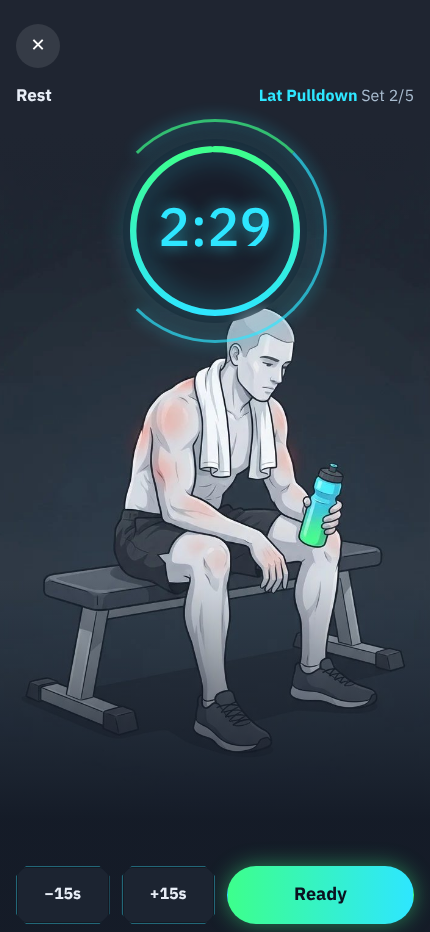
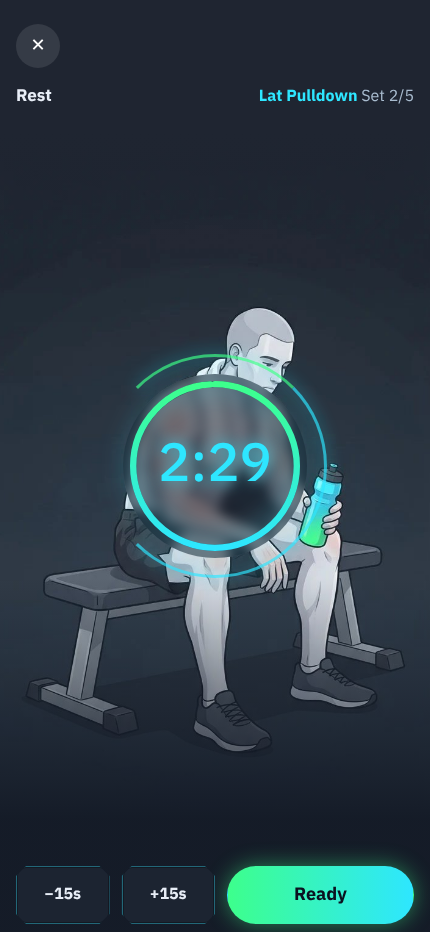
Rest photo: timer in the centre (#183)
* docs: Today critique snapshot + redesign intent

Claude-Session: https://claude.ai/code/session_01TA1QFnqgBxBRFsiXemJ9Lg

* chore: ignore impeccable live-server state

Claude-Session: https://claude.ai/code/session_01TA1QFnqgBxBRFsiXemJ9Lg

* Today: plan first, one start button, inline meal tick, folded recovery

Claude-Session: https://claude.ai/code/session_01TA1QFnqgBxBRFsiXemJ9Lg

* docs: merge PR automatically once npm test passes

Claude-Session: https://claude.ai/code/session_01TA1QFnqgBxBRFsiXemJ9Lg

* docs: no OK wait between steps

Claude-Session: https://claude.ai/code/session_01TA1QFnqgBxBRFsiXemJ9Lg

* Today: recovery-aware start, undo on meal tick, progress bars, direct start

Claude-Session: https://claude.ai/code/session_01TA1QFnqgBxBRFsiXemJ9Lg

* Today: rested program leads, rest-day exit, inline meal cancel, over-target bar

Claude-Session: https://claude.ai/code/session_01TA1QFnqgBxBRFsiXemJ9Lg

* Today: body weight + 7-day change + weigh-in in the body card

Claude-Session: https://claude.ai/code/session_01TA1QFnqgBxBRFsiXemJ9Lg

* Today: body card shows weight, muscle mass and body fat

Claude-Session: https://claude.ai/code/session_01TA1QFnqgBxBRFsiXemJ9Lg

* Today: weigh-in opens the full body-log sheet

Claude-Session: https://claude.ai/code/session_01TA1QFnqgBxBRFsiXemJ9Lg

* Today: headline matches suggestion, inline cancel, blank weigh-in, fits above tab bar

Claude-Session: https://claude.ai/code/session_01TA1QFnqgBxBRFsiXemJ9Lg
[…]

diff --git a/public/index.html b/public/index.html
@@ -8,11 +8,11 @@
 <meta name="apple-mobile-web-app-status-bar-style" content="black-translucent">
 <meta name="apple-mobile-web-app-title" content="WeightGram">
 <link rel="manifest" href="/manifest.webmanifest">
-<link rel="apple-touch-icon" href="/apple-touch-icon.png?v=138607">
+<link rel="apple-touch-icon" href="/apple-touch-icon.png?v=138608">
 <title>WeightGram</title>
 <link rel="stylesheet" href="https://fonts.googleapis.com/css2?family=IBM+Plex+Sans+Thai:wght@400;500;700&family=IBM+Plex+Mono:wght@400;500&family=Share+Tech+Mono&display=swap">
 <style>:root{padding-top:env(safe-area-inset-top,0px);padding-bottom:env(safe-area-inset-bottom,0px)}*{-webkit-tap-highlight-color:transparent}body{margin:0;font-size:var(--t-sm);font-family:system-ui,sans-serif}img{max-width:100%}[hidden]{display:none!important}</style>
-<link rel="stylesheet" href="/css/app.css?v=138607">
+<link rel="stylesheet" href="/css/app.css?v=138608">
 </head><body>
 
 <div class="wrap">
@@ -279,37 +279,37 @@
   </div>
 </div>
 
-<script src="/js/core.js?v=138607"></script>
-<script src="/js/food.js?v=138607"></script>
-<script src="/js/locations.js?v=138607"></script>
-<script src="/js/programs.js?v=138607"></script>
-<script src="/js/run.js?v=138607"></script>
-<script src="/js/workout.js?v=138607"></script>
-<script src="/js/exercise-edit.js?v=138607"></script>
-<script src="/js/edit-tx.js?v=138607"></script>
-<script src="/js/exercise-library.js?v=138607"></script>
-<script src="/js/program-manager.js?v=138607"></script>
-<script src="/js/hero.js?v=138607"></script>
-<script src="/js/rest-timer.js?v=138607"></script>
-<script src="/js/auth.js?v=138607"></script>
-<script src="/js/push.js?v=138607"></script>
-<script src="/js/data-io.js?v=138607"></script>
-<script src="/js/sync.js?v=138607"></script>
-<script src="/js/muscle-map.js?v=138607"></script>
-<script src="/js/progress.js?v=138607"></script>
-<script src="/js/history-chart.js?v=138607"></script>
-<script src="/js/stats-extra.js?v=138607"></script>
-<script src="/js/meal-plan.js?v=138607"></script>
-<script src="/js/undo.js?v=138607"></script>
-<script src="/js/home.js?v=138607"></script>
-<script src="/js/share.js?v=138607"></script>
-<script src="/js/explore.js?v=138607"></script>
-<script src="/js/onboarding.js?v=138607"></script>
-<script src="/js/account.js?v=138607"></script>
-<script src="/js/share-card.js?v=138607"></script>
-<script src="/js/number-pad.js?v=138607"></script>
-<script src="/js/refresh.js?v=138607"></script>
-<script src="/js/app.js?v=138607"></script>
+<script src="/js/core.js?v=138608"></script>
+<script src="/js/food.js?v=138608"></script>
+<script src="/js/locations.js?v=138608"></script>
+<script src="/js/programs.js?v=138608"></script>
+<script src="/js/run.js?v=138608"></script>
+<script src="/js/workout.js?v=138608"></script>
+<script src="/js/exercise-edit.js?v=138608"></script>
+<script src="/js/edit-tx.js?v=138608"></script>
+<script src="/js/exercise-library.js?v=138608"></script>
+<script src="/js/program-manager.js?v=138608"></script>
+<script src="/js/hero.js?v=138608"></script>
+<script src="/js/rest-timer.js?v=138608"></script>
+<script src="/js/auth.js?v=138608"></script>
+<script src="/js/push.js?v=138608"></script>
+<script src="/js/data-io.js?v=138608"></script>
+<script src="/js/sync.js?v=138608"></script>
+<script src="/js/muscle-map.js?v=138608"></script>
+<script src="/js/progress.js?v=138608"></script>
+<script src="/js/history-chart.js?v=138608"></script>
+<script src="/js/stats-extra.js?v=138608"></script>
+<script src="/js/meal-plan.js?v=138608"></script>
+<script src="/js/undo.js?v=138608"></script>
+<script src="/js/home.js?v=138608"></script>
+<script src="/js/share.js?v=138608"></script>
+<script src="/js/explore.js?v=138608"></script>
+<script src="/js/onboarding.js?v=138608"></script>
+<script src="/js/account.js?v=138608"></script>
+<script src="/js/share-card.js?v=138608"></script>
+<script src="/js/number-pad.js?v=138608"></script>
+<script src="/js/refresh.js?v=138608"></script>
+<script src="/js/app.js?v=138608"></script>
 
 <div id="rec-wrap" class="stack" style="gap:10px" hidden><div class="rcf-head"><div class="sec-t" data-i="การฟื้นตัวของกล้ามเนื้อ">การฟื้นตัวของกล้ามเนื้อ</div><button class="btn sm" id="rec-cfg">⚙ <span data-i="ตั้งเวลาฟื้นตัว">ตั้งเวลาฟื้นตัว</span></button></div><div class="card" id="rec-body"></div></div>
 </body></html>

diff --git a/public/css/app.css b/public/css/app.css
@@ -1550,3 +1550,6 @@ body:has(#rest:not([hidden])) .tabbar{display:none!important}
 #rest.photo .rest-dial .rest-time{font-size:54px!important}
 #rest.photo .rest-dial::after{content:"";position:absolute;inset:8px;border-radius:50%;background:rgba(18,24,36,.55);backdrop-filter:blur(6px);-webkit-backdrop-filter:blur(6px);z-index:-1}
 #rest.photo .actions{margin-top:auto!important}
+/* photo rest: timer in the middle of the picture */
+#rest.photo .rest-in{position:relative}
+#rest.photo .rest-dial{position:fixed!important;left:50%;top:50%;transform:translate(-50%,-50%);margin:0!important;z-index:2}

diff --git a/docs/work/2026-11-21-train-calm/plan-rest-center.md b/docs/work/2026-11-21-train-calm/plan-rest-center.md
@@ -1,0 +1,2 @@
+# Rest photo: timer centered
+- [x] dial fixed at screen centre over the illustration
